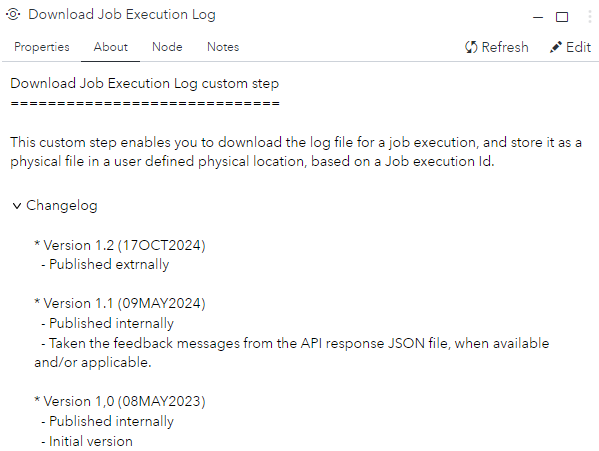
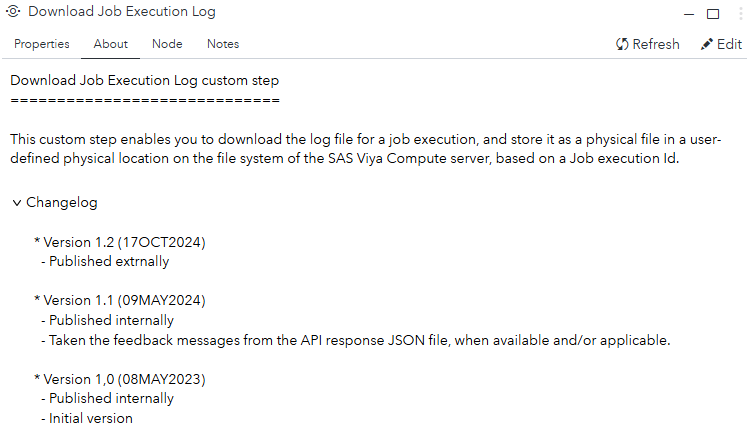
Implemented feedback.

diff --git a/Download Job Execution Log/README.md b/Download Job Execution Log/README.md
@@ -2,7 +2,7 @@
 
 ## Description
 
-This custom step enables you to download the log file for a job execution and store it as a physical file in a user defined physical location, based on a Job execution Id. 
+This custom step enables you to download the log file for a job execution and store it as a physical file in a user defined physical location on your SAS Viya environment, based on a Job execution Id. 
 
 ## SAS Viya Version Support
 
@@ -10,7 +10,9 @@ Created and tested on Viya 4, Stable 2023.01 and Stable 2024.08
 
 ## Typical usage
 
-When running processes as a job or job flow, you can download the logs manually from the SAS Viya Environment Manager. ![SAS Viya Environment Manager](img/Environment%20Manager.PNG) 
+When running processes as a job or job flow, you can download the logs manually from the SAS Viya Environment Manager. 
+
+![SAS Viya Environment Manager](img/Environment%20Manager.PNG) 
 
 With this custom step you can do that in an automated manner from within a flow or job, ready for further processing and/or reviewing.
 
@@ -23,7 +25,7 @@ With this custom step you can do that in an automated manner from within a flow 
 Here you can set the following parameters:
 
 - **Job execution id**: This is the column in the input table that contains the job execution id for which you want to download the log file.
-- **Physical target directory**: The physical location where the log files will be saved to.
+- **Select the SAS Compute file system directory:**: The physical location where the log files will be saved to a physical location on your SAS Viya Compute server.
 
 ### Tab: About
 
@@ -54,13 +56,16 @@ The output table for this custom step contains the following three columns:
 ## Notes
 
 - The naming convention for the log file is: \<**job name**>\_\<**account name**>\_\<**start date/time**>.log, which is the same as for the environment manager.
-- The physical files can be found, after running this custom step, in the specified physical location:
+- The physical files can be found, after running this custom step, in the specified physical location on your SAS Viya environment. Note that the directory as shown in this picture us only an example.:
 
 - ![LOG files](img/UI_Results.PNG)
 - The process is a two step rocket. The first step is getting generic information together with the URI of the log entity. The second step is to retrieve the actual log file and writing it to the specified location with the specified name.
 - Not all job executions are the same. Some of them do not have a log file associated to them. In case that happens, you will see the message in the resulting output table:  **ERROR: The column 'logLocation' doesn not exist, in the initial response file. Unable to retrieve the log file.**
 - In case you don't have permission to see/download the log file, you will see the following message in the resulting output table: **File could not be read. User does not have permission.**
 - When a Job execution, for the given Id, can't be found you will see the following message in the resulting output table: **Job not found with id: eeabf86b-e2dc-4ed0-935a-2e0a29a65285.**
+- In case you try to select a directory in the SAS content directory structure you will get the following error message: 
+
+- ![Error message](img/UI_Error_message.png)
 - Each message from this custom step is pre-fixed with **'ERROR:'**. Every other message is comming from the Viya environment itself.
 
 ## Change Log
